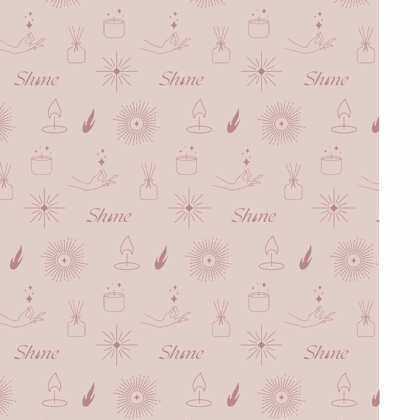
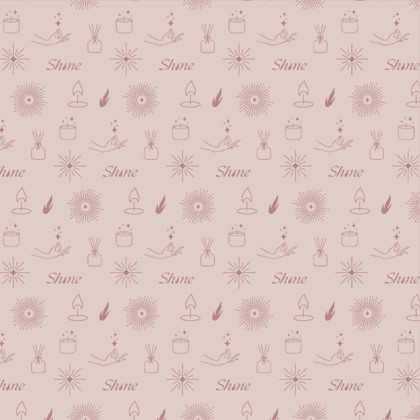
fix(shine): cierra B-7/B-8 y M-5/M-6/M-7 del re-gate del catálogo
Corrección de dos afirmaciones del commit anterior que no se sostenían:
la trama re-derivada NO era RGBA útil (quedó opaca y con costura) y las
4 fotos huérfanas NO se habían eliminado (el git rm falló y el re-encode
las volvió a tocar). Este commit deja el árbol y el reporte diciendo lo
mismo:

- B-7: se restaura el tile de trama extraído del catálogo, que tilea sin
  costura — verificado: 0 columnas con luminancia >246 en 3 alturas de
  muestreo (el re-derivado tenía 41)
- B-8: la bandeja móvil envuelve en filas: contador '1 pieza · $25.000'
  visible con su role=status + CTA en la primera fila, y el gancho de
  envío gratis en fila propia — verificado a 320/360/390/414: overflow 0,
  CTA adentro, texto sin recortes
- M-5: la etiqueta 'Desde' se posiciona sobre el precio sin ocupar alto:
  pies alineados en toda la fila a 320/360/390/1440 (tops idénticos)
- M-6: las 4 huérfanas borradas DE VERDAD (quedan 40 jpg + trama)
- M-7: firma GSG en el README de shine-shop
- Obs: destello con su proporción real (11×15) · apagavelas a q68

Claude-Session: https://claude.ai/code/session_015tPbgkyBQ2u37zi1JLVdoF

diff --git a/public/demo-shine-shop/index.html b/public/demo-shine-shop/index.html
@@ -25,7 +25,7 @@
   .disp { font-family:'Cormorant Garamond',Georgia,serif; font-weight:400; letter-spacing:-.01em; line-height:1; }
   .num { font-variant-numeric:tabular-nums; }
   .meta { font-size:11px; letter-spacing:.22em; text-transform:uppercase; color:var(--malva-d); }
-  .destello { width:11px; height:11px; vertical-align:-1px; }
+  .destello { width:11px; height:15px; vertical-align:-3px; }
 
   .anuncio { text-align:center; background:var(--tinta); color:#f3ebe1; font-size:11px;
              font-weight:600; letter-spacing:.14em; text-transform:uppercase; padding:9px 16px; }
@@ -138,10 +138,12 @@
              font-size:9px; font-weight:600; letter-spacing:.14em; text-transform:uppercase;
              color:#f3ebe1; background:rgba(58,17,25,.92); padding:5px 0; }
     .barra { padding:12px 18px calc(12px + env(safe-area-inset-bottom)); gap:14px; }
+    .barra { flex-wrap:wrap; row-gap:4px; }
+    #barra-linea { font-size:12.5px !important; }
     .barra .track { display:none; }
-    .barra .medidor { flex:1; min-width:0; max-width:none; }
+    .barra .medidor { flex:1 1 100%; min-width:100%; order:3; }
     #barra-envio { margin-top:0 !important; font-size:11px !important; }
-    #barra-linea { display:none; }
+    .barra-cta { min-height:44px; padding:0 18px; font-size:12px; }
     .pie { grid-template-columns:1fr; padding:44px 20px 40px; }
   }
   @media (min-width:901px) and (max-width:1200px) { .grilla { grid-template-columns:repeat(3,minmax(0,1fr)); } }
@@ -326,7 +328,7 @@ function construirGrilla() {
       ${p.sub ? `<div class="sub">${p.sub}</div>` : ''}
       <div style="flex:1"></div>
       <div class="pie-prod">
-        <span class="precio num">${p.desde ? 'Desde ' : ''}${money(p.precio)}</span>
+        <span class="precio num" style="position:relative">${p.desde ? '<small style="position:absolute;bottom:100%;left:0;font-size:9.5px;font-weight:600;letter-spacing:.1em;text-transform:uppercase;color:var(--malva-d)">Desde</small>' : ''}${money(p.precio)}</span>
         <button class="sumar" data-add="${p.id}" aria-label="Sumar ${p.nombre} al carrito">Sumar</button>
       </div>
     </article>`;

diff --git a/docs/diseno/shine-shop/README.md b/docs/diseno/shine-shop/README.md
@@ -67,3 +67,5 @@ Los `.dc.html` y `canvas.json` son la fuente. La página armada NO se versiona (
 `canvas.json` y las imágenes de `public/tenants/shinevelas/` (`logo.png`, `flame-mask.png`,
 `hero.jpg`, `ambiance.jpg`, `gift.jpg`, `mundo-velas.jpg`, `mundo-aromas.jpg`,
 `mundo-decoracion.jpg`), y se republica sobre la MISMA URL de arriba.
+
+— Elaborado por **Gestión Studio Grow (GSG)**
